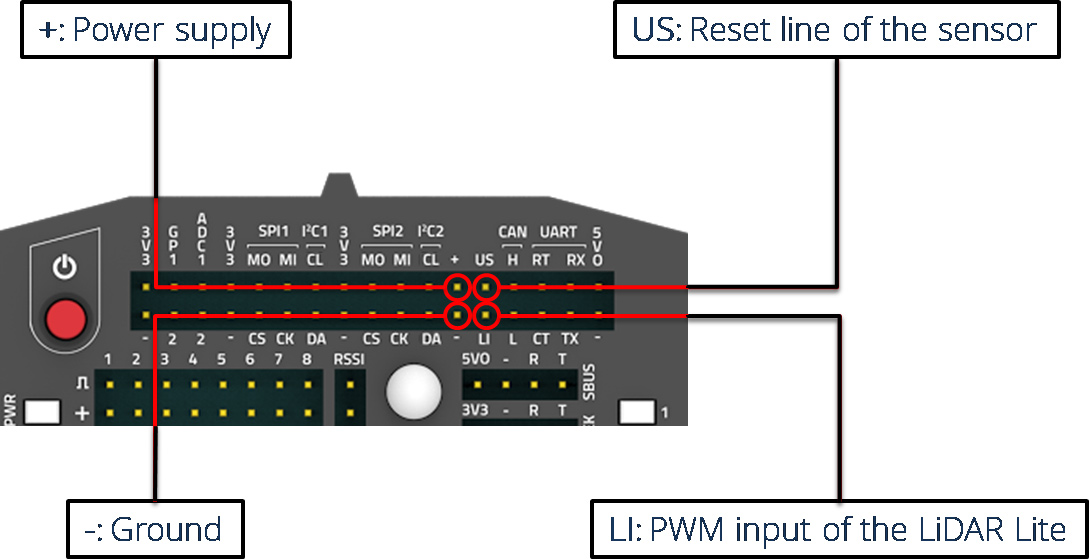
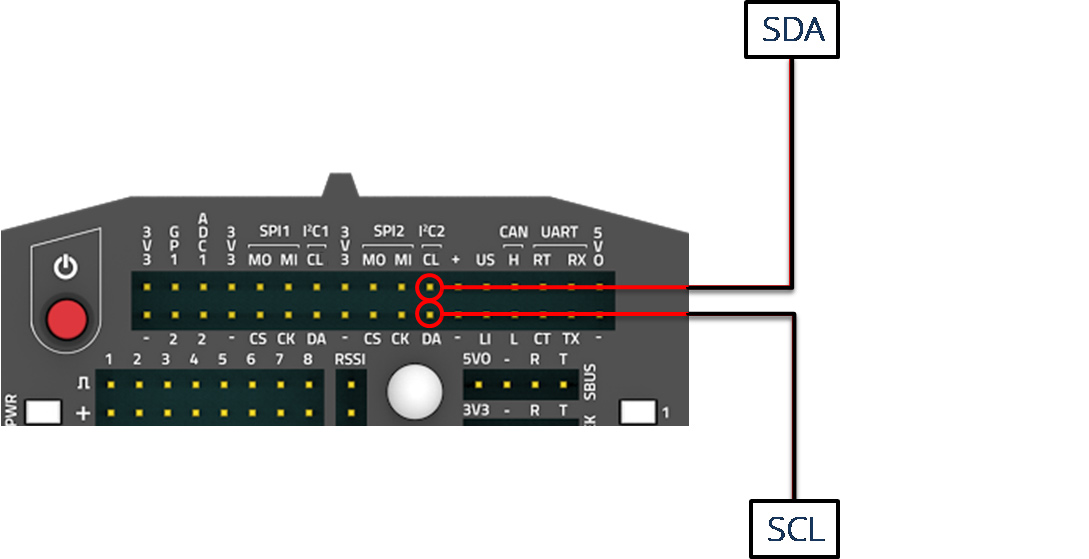
expansion ports edited

diff --git a/source/docs/FlytPOD/Hardware_specifications.rst b/source/docs/FlytPOD/Hardware_specifications.rst
@@ -359,23 +359,25 @@ Below are two methods for connecting LiDAR-lite to FlytPOD.
   
   Please follow the table below to make the required connections.
 
-.. image:: /_static/Images/LiDARpins.jpg
+.. image:: /_static/Images/lidarpinstable.jpg
   	:align: center
-  	:scale: 70%
+  	:scale: 80%
 
-.. figure:: /_static/Images/lidarpins.jpg
+.. figure:: /_static/Images/uartpins.jpg
 	:align: center
-	:scale: 50%
+	:scale: 80%
 	
 	LiDAR Pins
 
 * I2C Bus
+  
+  Connect LiDAR-lite I2C wires to I2C-2 port as shown below.
 
 
 
-.. figure:: /_static/Images/i2cpins.jpg
+.. figure:: /_static/Images/i2cbus.jpg
 	:align: center
-	:scale: 50%
+	:scale: 80%
 	
 	I2C Pins
 
@@ -383,11 +385,11 @@ Below are two methods for connecting LiDAR-lite to FlytPOD.
 Telemetry
 ^^^^^^^^^
 
+Connect your Telemetry module to the Telemetry port(Rx and Tx) as shown below for QGroundControl and APMplanner. MAVlink available at baud rate 57600.
 
-
-.. figure:: /_static/Images/telemetrypins.png
+.. figure:: /_static/Images/telemetry.jpg
 	:align: center
-	:scale: 50%
+	:scale: 80%
 	
 	Telemetry pins
 

diff --git a/source/docs/FlytPOD/About_FlytPOD.rst b/source/docs/FlytPOD/About_FlytPOD.rst
@@ -26,7 +26,7 @@ Below is an introductory `youtube video <https://www.youtube.com/watch?v=BWaecLy
 Technical Specifications
 ------------------------
 
-.. image:: /_static/Images/techspec.jpg
+.. image:: /_static/Images/techspectable.jpg
  :align: center
  
 
